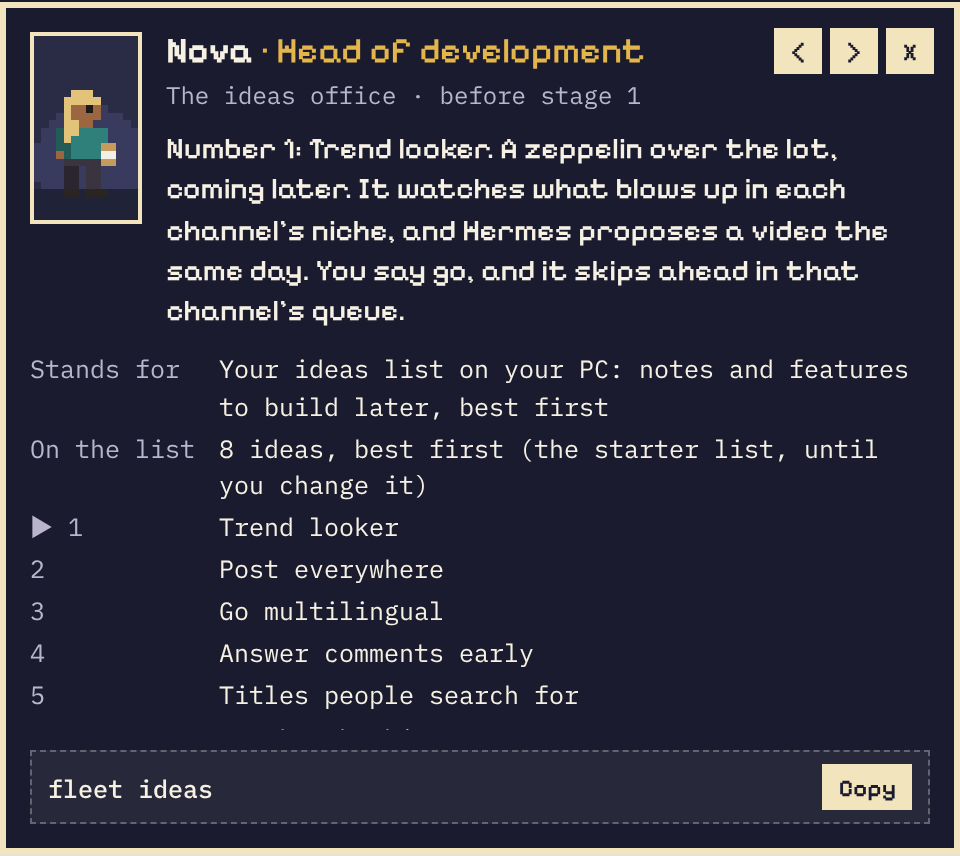
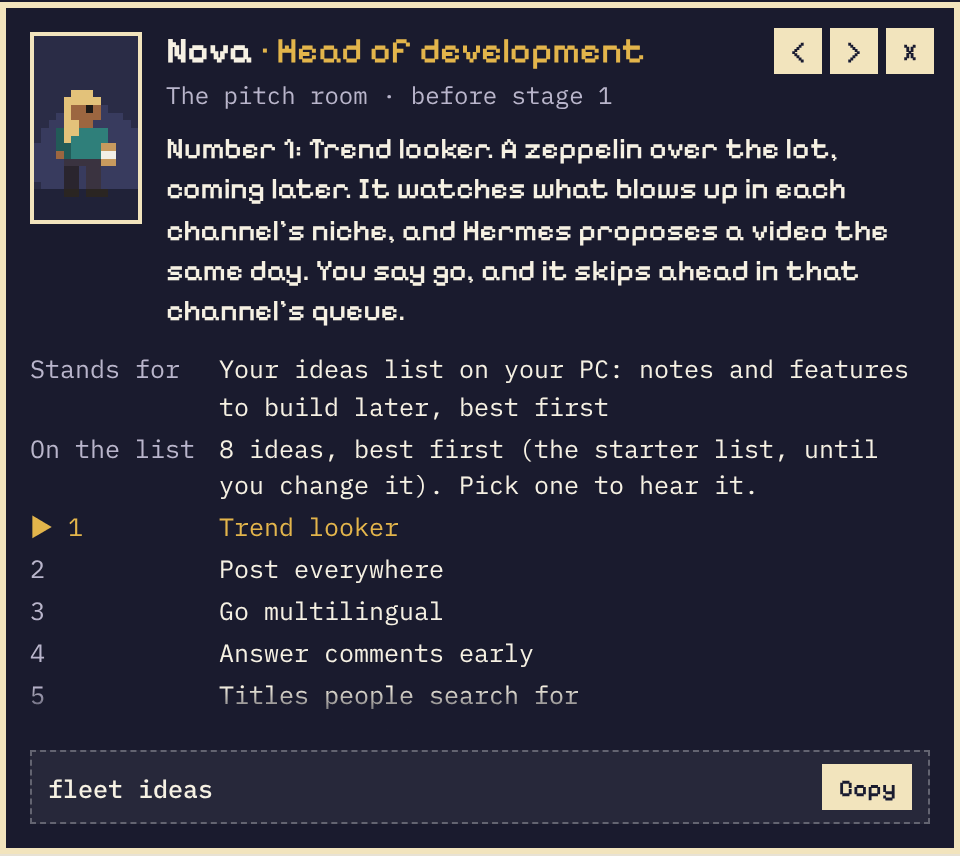
fleet studio: the ideas office becomes the pitch room, and its list scrolls
The building before stage 1 keeps to the film lot: its sign says PITCH, the
card and the call sheet call it the pitch room, and Nova pitches each idea.
Where an idea stands is said in film words: greenlit (next), in production
(building), wrapped (built). The fleet ideas command and its statuses stay
as they were.

In Nova's card the whole list scrolls, with a fade while there is more
above or below. Click an idea, or its number, and Nova pitches that one now
and goes on from there; with the keyboard, Tab to the list and use the up
and down arrows. The list follows the idea being read unless you scrolled
it a moment ago, and a redraw no longer moves your scroll.

The skill tells Hermes the film words (fleet-ops 1.7.1).

Claude-Session: https://claude.ai/code/session_017N652kmKMniw5bDy4zoPiv

diff --git a/home/studio/pixel.html b/home/studio/pixel.html
@@ -200,6 +200,15 @@ html.lot-full, html.lot-full body { overflow: hidden; }
 .film.stacked .params { max-height: none; }
 .params dt { color: var(--box-soft); }
 .params dd { overflow-wrap: anywhere; }
+.params { scrollbar-width: thin; scrollbar-color: var(--box-soft) transparent; }
+.params.up { -webkit-mask-image: linear-gradient(transparent, #000 22px); mask-image: linear-gradient(transparent, #000 22px); }
+.params.down { -webkit-mask-image: linear-gradient(#000 calc(100% - 22px), transparent); mask-image: linear-gradient(#000 calc(100% - 22px), transparent); }
+.params.up.down { -webkit-mask-image: linear-gradient(transparent, #000 22px, #000 calc(100% - 22px), transparent); mask-image: linear-gradient(transparent, #000 22px, #000 calc(100% - 22px), transparent); }
+.params dt[data-pick] { cursor: pointer; }
+.params .pickb { all: unset; display: block; cursor: pointer; overflow-wrap: anywhere; }
+.params .pickb:hover { background: none; color: #fff; text-decoration: underline; text-underline-offset: 2px; }
+.params .pickb:focus-visible { outline: 2px solid var(--gold); outline-offset: 1px; }
+.params .on, .params .on .pickb { color: var(--gold); }
 .cmd { grid-column: 1 / -1; display: flex; gap: 8px; align-items: center; padding: 6px 8px; background: rgba(255, 255, 255, .06); border: 1px dashed rgba(255, 255, 255, .28); }
 .cmd[hidden] { display: none; }
 .cmd code { flex: 1; font: 500 12.5px/1.3 var(--font-mono); overflow-wrap: anywhere; }
@@ -337,7 +346,7 @@ html.lot-full, html.lot-full body { overflow: hidden; }
   function plan(n) {
     const R = Math.ceil(n / 2), Lc = Math.floor(n / 2);
     G = Math.max(28, B + Math.max(R, Lc + 1) * SLOT + 5);  // at least 28: room on the lawn for the screen
-    ideasBase = B + Lc * SLOT;  // the ideas office, just before stage 1
+    ideasBase = B + Lc * SLOT;  // the pitch room, just before stage 1
     towerY = ideasBase + 8;     // then the water tower: G is always at least ideasBase + 12
     const out = [];  // read from left to right: the left edge from the outside in, then the right edge
     for (let j = Lc - 1; j >= 0; j--) out.push({ edge: "L", base: B + j * SLOT });
@@ -944,8 +953,8 @@ html.lot-full, html.lot-full body { overflow: hidden; }
     staticHits.push(Object.assign(bbox([[C[0] - rx - 5, apex[1]], [C[0] + rx + 5, C[1]]]), { key: "lookout", pri: 6 }));
   }
 
-  // The ideas office, just before stage 1: notes and features to build later. A light bulb on the
-  // roof, a note pinned by the side for each idea, the list itself on an easel (see ideasCast).
+  // The pitch room, just before stage 1: your ideas for later, pitched one at a time. A light bulb
+  // on the roof, a note pinned by the side for each idea, the list itself on an easel (see ideasCast).
   const TEAL = "#2f7f7a";
   function drawIdeas(g) {
     const x0 = 0.6, x1 = 3.9, y0 = ideasBase + 0.5, y1 = ideasBase + 4.3, h = 28;
@@ -960,7 +969,7 @@ html.lot-full, html.lot-full body { overflow: hidden; }
     const front = (ya, yb, za, zb) => { win([P(x1, ya, za), P(x1, yb, za), P(x1, yb, zb), P(x1, ya, zb)]); seg(g, P(x1, ya, za - 1), P(x1, yb, za - 1), "#f7f1e1"); };
     const side = (xa, xb, za, zb) => { win([P(xa, y1, za), P(xb, y1, za), P(xb, y1, zb), P(xa, y1, zb)]); seg(g, P(xa, y1, za - 1), P(xb, y1, za - 1), "#f7f1e1"); };
     front(y0 + 0.3, y0 + 1.15, 4, 10); front(y0 + 2.65, y0 + 3.5, 4, 10);                       // the ground floor
-    for (const a of [0.3, 1.55, 2.8]) front(y0 + a, y0 + a + 0.7, 14, 20);                      // the writers' room
+    for (const a of [0.3, 1.55, 2.8]) front(y0 + a, y0 + a + 0.7, 14, 20);                      // upstairs
     side(x0 + 0.45, x0 + 1.2, 14, 20); side(x0 + 1.95, x0 + 2.7, 14, 20);
     poly(g, [P(x1, y0 + 1.5, 0), P(x1, y0 + 2.3, 0), P(x1, y0 + 2.3, 10), P(x1, y0 + 1.5, 10)], TEAL);  // the door
     win([P(x1, y0 + 1.65, 5), P(x1, y0 + 2.15, 5), P(x1, y0 + 2.15, 9), P(x1, y0 + 1.65, 9)]);
@@ -970,7 +979,7 @@ html.lot-full, html.lot-full body { overflow: hidden; }
       poly(g, [P(x1, ya, 13), P(x1, yb, 13), P(x1 + 0.55, yb, 11), P(x1 + 0.55, ya, 11)], i % 2 ? "#f4efe4" : TEAL);
     }
     const t0 = P(x1, y0 + 3.09, 26);
-    text(g, "IDEAS", t0[0], t0[1], TEAL, { shear: -1 });
+    text(g, "PITCH", t0[0], t0[1], TEAL, { shear: -1 });
     // the notes board by the side: a note pinned for each idea
     poly(g, [P(x0 + 0.35, y1, 3), P(x0 + 2.95, y1, 3), P(x0 + 2.95, y1, 10), P(x0 + 0.35, y1, 10)], "#a8774a");
     seg(g, P(x0 + 0.35, y1, 10), P(x0 + 2.95, y1, 10), "#6b4a2c"); seg(g, P(x0 + 0.35, y1, 3), P(x0 + 2.95, y1, 3), "#6b4a2c");
@@ -2203,21 +2212,23 @@ html.lot-full, html.lot-full body { overflow: hidden; }
     add(Object.assign({ key: "screen", name: "The screening room", role: "Finished videos", where: "On the lawn", group: LOT, order: 5, object: "screen",
       stands: "the videos you have collected with fleet pull, newest first", live: screenFacts }, screenFacts()));
   }
-  // ---------------------------------------------------------------- the ideas office
-  // The head of development reads your ideas list out at the easel, one idea at a time, a longer
-  // one a little longer, then says how to add one. Open their card and they start from the top.
+  // ---------------------------------------------------------------- the pitch room
+  // The head of development pitches your ideas list at the easel, one idea at a time, a longer
+  // one a little longer, then says how to add one. Open their card and they start from the top;
+  // pick an idea in the card and they pitch that one, then go on from there.
   const IDEAS = "ideas";
   const reading = { slots: [], total: 0, n: 0, t0: 0 };
   const ideasNow = () => (snap && Array.isArray(snap.ideas) ? snap.ideas.filter((i) => i && i.title) : []);
-  const IDEA_HOW = { next: "next to build", building: "being built", built: "built" };
+  // Where an idea stands, in film words: next is greenlit, building is in production, built is wrapped.
+  const IDEA_HOW = { next: "greenlit", building: "in production", built: "wrapped" };
   function ideaSaid(i, k) {
-    const how = { next: ", the next one to build", building: ", being built now", built: ", already built" }[i.status] || "";
+    const how = { next: ", greenlit to be built next", building: ", in production right now", built: ", wrapped and built" }[i.status] || "";
     return "Number " + (k + 1) + how + ": " + sentence(i.title) + (i.note ? " " + sentence(i.note) : "");
   }
   function readList(list) {  // a slot of time for each idea, then the closing line
     const said = list.map(ideaSaid);
-    said.push(list.length ? "That's the list: " + plural(list.length, "idea", "ideas") + ", best first. To add one, tell Hermes on Telegram or run fleet ideas add."
-      : "The list is empty. To add an idea, tell Hermes on Telegram or run fleet ideas add.");
+    said.push(list.length ? "That's " + (list.length === 1 ? "the only pitch" : "all " + list.length + " pitches, best first") + ". To add one, tell Hermes on Telegram or run fleet ideas add."
+      : "Nothing to pitch yet. To add an idea, tell Hermes on Telegram or run fleet ideas add.");
     let at = 0;
     reading.slots = said.map((q) => { const ms = Math.max(5000, Math.min(11000, 2000 + q.length * 40)), sl = { said: q, start: at, ms }; at += ms; return sl; });
     reading.total = at; reading.n = list.length;
@@ -2237,13 +2248,14 @@ html.lot-full, html.lot-full body { overflow: hidden; }
       if (err) return { quote: "I can't read the ideas list: " + sentence(err), params: [["Problem", err]] };
       const r = readNow(), cur = r ? r.k : -1;
       return { quote: r ? r.slot.said : "",
-        params: [["On the list", plural(list.length, "idea", "ideas") + ", best first" + (snap && snap.ideas_starter ? " (the starter list, until you change it)" : "")]]
-          .concat(list.map((i, k) => [(k === cur ? "▶ " : "") + (k + 1), i.title + (IDEA_HOW[i.status] ? " · " + IDEA_HOW[i.status] : "")])) };
+        params: [["On the list", plural(list.length, "idea", "ideas") + ", best first" + (snap && snap.ideas_starter ? " (the starter list, until you change it)" : "") + (list.length > 1 ? ". Pick one to hear it." : "")]]
+          .concat(list.map((i, k) => [(k === cur ? "▶ " : "") + (k + 1), i.title + (IDEA_HOW[i.status] ? " · " + IDEA_HOW[i.status] : ""), { pick: k, on: k === cur }])) };
     };
-    add({ key: IDEAS, name: "Nova", role: "Head of development", where: "The ideas office · before stage 1", group: IDEAS, order: 0,
+    add({ key: IDEAS, name: "Nova", role: "Head of development", where: "The pitch room · before stage 1", group: IDEAS, order: 0,
       stands: "your ideas list on your PC: notes and features to build later, best first",
-      quote: err ? "I can't read the ideas list." : list.length ? plural(list.length, "idea", "ideas") + " on the list. Number 1: " + sentence(list[0].title) : "The ideas list is empty.",
+      quote: err ? "I can't read the ideas list." : list.length ? plural(list.length, "pitch", "pitches") + " on the list. Number 1: " + sentence(list[0].title) : "Nothing to pitch yet.",
       look: look(IDEAS, { shirt: TEAL, pants: "#3a3340", prop: "clipboard" }), reads: !err, live: facts,
+      pick: (k) => { if (reading.slots[k]) reading.t0 = Date.now() - reading.slots[k].start; },  // pitch this one now
       cmd: "fleet ideas",
       bubble: () => { const r = readNow(); return r && r.k < reading.n && r.into < 2600 ? String(r.k + 1) : null; },
       pos: () => ({ gx: 3.6, gy: ideasBase + 5.4 }) });
@@ -2264,7 +2276,7 @@ html.lot-full, html.lot-full body { overflow: hidden; }
     if (cur >= 0) { const yy = by + 5 + (cur - from) * 2; px(g, bx - 3, yy - 1, 1, 3, "#d6402f"); px(g, bx - 2, yy, 1, 1, "#d6402f"); }
     return { x: bx - 4, y: by - 1, w: bw + 6, h: y - by + 2 };
   }
-  function ideaGlow(g, Lt) {  // the bulb on the ideas office: lit after dark, a flash at each new idea
+  function ideaGlow(g, Lt) {  // the bulb on the pitch room: lit after dark, a flash at each new idea
     const r = readNow(), [x, y] = lights.idea;
     const flash = r && r.k < reading.n && !reduced ? clamp01(1 - r.into / 700) : 0;
     const a = Math.max(clamp01((Lt.dark - 0.2) / 0.3) * 0.85, flash);
@@ -3378,22 +3390,64 @@ html.lot-full, html.lot-full body { overflow: hidden; }
     reveal(r);
     dialog.classList.toggle("right", !!r && panX + (r.x + r.w / 2) * scale * zoom < viewW() * 0.48);
     dialog.hidden = false;
+    follow();  // now that the box has a size
     markSheet();
     if (from === "sheet") film.scrollIntoView({ block: "nearest", behavior: reduced ? "auto" : "smooth" });
   }
+  let paramsShown = "", listAt = 0;  // the lines in the box as drawn, and when you last scrolled them
   function fillDialog(m, fresh) {
     if (m.live) Object.assign(m, m.live());  // someone whose words change between looks (the screen)
     D.name.textContent = m.name;
     D.role.textContent = "· " + m.role;
     D.where.textContent = m.where;
-    D.params.innerHTML = [["Stands for", cap(m.stands)]].concat(m.params || [])
-      .map(([k, v]) => "<dt>" + esc(k) + "</dt><dd>" + esc(v) + "</dd>").join("");
+    const html = [["Stands for", cap(m.stands)]].concat(m.params || []).map(paramRow).join("");
+    if (fresh || html !== paramsShown) {  // drawn again only when a line changes, so a scroll stays where it is
+      const f = D.params.contains(document.activeElement) ? document.activeElement.getAttribute("data-pick") : null;
+      D.params.innerHTML = paramsShown = html;
+      if (fresh) { D.params.scrollTop = 0; listAt = 0; }
+      const b = f != null && D.params.querySelector('button[data-pick="' + f + '"]');
+      if (b) b.focus({ preventScroll: true });
+      follow();
+    }
     D.cmd.hidden = !m.cmd;
     D.watch.hidden = !m.film;
     if (D.code.textContent !== (m.cmd || "")) { D.code.textContent = m.cmd || ""; D.copy.textContent = "Copy"; }
     if (fresh || m.quote !== shownQuote) type(m.quote, fresh || !!m.reads);
     drawPortrait($("portrait"), m);
   }
+  // A line of the box. One you can pick (an idea in the pitch room) is a button: [label, value, { pick, on }].
+  function paramRow([k, v, o]) {
+    if (!o) return "<dt>" + esc(k) + "</dt><dd>" + esc(v) + "</dd>";
+    return "<dt" + (o.on ? ' class="on"' : "") + ' data-pick="' + o.pick + '">' + esc(k) + "</dt><dd" + (o.on ? ' class="on"' : "") + '><button type="button" class="pickb" data-pick="'
+      + o.pick + '"' + (o.on ? ' aria-current="true"' : "") + ">" + esc(v) + "</button></dd>";
+  }
+  function edges() {  // a fade at the top or the bottom of the lines while there are more that way
+    const L = D.params;
+    L.classList.toggle("up", L.scrollTop > 2);
+    L.classList.toggle("down", L.scrollTop + L.clientHeight < L.scrollHeight - 2);
+  }
+  function follow() {  // keep the line being read out in view, unless you scrolled the list a moment ago
+    const L = D.params, on = L.querySelector("dd.on");
+    if (on && Date.now() - listAt > 8000 && L.scrollHeight > L.clientHeight + 2) {
+      const lr = L.getBoundingClientRect(), r = on.getBoundingClientRect();
+      if (r.top < lr.top + 6 || r.bottom > lr.bottom - 6) {
+        L.scrollTo({ top: L.scrollTop + (r.top + r.bottom) / 2 - (lr.top + lr.bottom) / 2, behavior: reduced ? "auto" : "smooth" });
+      }
+    }
+    edges();
+  }
+  function pickLine(k) {  // pick a line: the pitch room pitches that idea now
+    const m = selected ? castBy.get(selected) : null;
+    if (!m || !m.pick || !Number.isFinite(k)) return;
+    m.pick(k);
+    fillDialog(m, false);
+  }
+  for (const ev of ["wheel", "touchstart", "pointerdown", "keydown"]) D.params.addEventListener(ev, () => { listAt = Date.now(); }, { passive: true });
+  D.params.addEventListener("scroll", edges, { passive: true });
+  D.params.addEventListener("click", (e) => {
+    const t = e.target && e.target.closest ? e.target.closest("[data-pick]") : null;
+    if (t) pickLine(Number(t.getAttribute("data-pick")));
+  });
   function type(q, animate) {
     shownQuote = q; D.said.textContent = q;
     clearInterval(typing);
@@ -3430,7 +3484,12 @@ html.lot-full, html.lot-full body { overflow: hidden; }
   document.addEventListener("keydown", (e) => {
     if (inBox(e)) return;
     if (e.key === "Escape" && !dialog.hidden) { closeDialog(); e.preventDefault(); }
-    else if (!dialog.hidden && (e.key === "ArrowRight" || e.key === "ArrowLeft") && dialog.contains(document.activeElement)) {
+    else if (!dialog.hidden && (e.key === "ArrowDown" || e.key === "ArrowUp") && document.activeElement && document.activeElement.classList.contains("pickb")) {
+      const k = Number(document.activeElement.getAttribute("data-pick")) + (e.key === "ArrowDown" ? 1 : -1);  // the next or previous idea
+      const b = D.params.querySelector('button[data-pick="' + k + '"]');
+      if (b) { b.focus(); pickLine(k); }
+      e.preventDefault();
+    } else if (!dialog.hidden && (e.key === "ArrowRight" || e.key === "ArrowLeft") && dialog.contains(document.activeElement)) {
       step(e.key === "ArrowRight" ? 1 : -1); e.preventDefault();
     }
   });
@@ -3457,7 +3516,7 @@ html.lot-full, html.lot-full body { overflow: hidden; }
   let sheetKeys = [], sheetSig = "";
   function renderSheet() {
     const groups = [{ key: LOT, title: "The lot", c: "var(--gold)", sub: "your PC and the road" },
-      { key: IDEAS, title: "The ideas office", c: TEAL, sub: "notes for later" }]
+      { key: IDEAS, title: "The pitch room", c: TEAL, sub: "your ideas for later" }]
       .concat(stagesNow.map((st) => ({ key: st.key, title: "Stage " + st.no + " · " + st.node.name, c: CSSC[st.ss.state], sub: st.ss.sign })));
     const keys = [], parts = [];
     for (const gr of groups) {

diff --git a/docs/handoff.md b/docs/handoff.md
@@ -40,7 +40,7 @@ owner can give you their PC through Remote Control; the VPSs are reached only th
 | --- | --- |
 | `home/bin/fleet` | The CLI. One Python file, standard library only, Python 3.9+, Windows, Linux and macOS. |
 | `home/studio/studio.html` | The studio board, a page fragment. `fleet studio` serves it in a full page from the PC with live data. Opened as a plain file, it shows an example lot. It has a strip of the last 24 hours that replays the board, and a screening room for the collected videos. |
-| `home/studio/pixel.html` | The pixel lot: the same fleet drawn on a canvas in isometric pixel art, every character on the lot tied to a real value, in a town that is only scenery. The light follows the viewer's clock minute by minute, the season follows the date and the weather is made up from the date and the hour (scenery too). The picture zooms in sharp steps and drags, and full screen keeps the screen on. Sound, off until turned on, is made in the page with Web Audio. A screen on the lawn shows the collected videos, the ideas office before stage 1 reads out the owner's ideas list, and Replay plays back the last 24 hours. One file with no build step, served as `/pixel.html`. |
+| `home/studio/pixel.html` | The pixel lot: the same fleet drawn on a canvas in isometric pixel art, every character on the lot tied to a real value, in a town that is only scenery. The light follows the viewer's clock minute by minute, the season follows the date and the weather is made up from the date and the hour (scenery too). The picture zooms in sharp steps and drags, and full screen keeps the screen on. Sound, off until turned on, is made in the page with Web Audio. A screen on the lawn shows the collected videos, the pitch room before stage 1 reads out the owner's ideas list, and Replay plays back the last 24 hours. One file with no build step, served as `/pixel.html`. |
 | `home/studio/studio-data.js` | What both views share: the example lot, the polling of `/api/studio`, the meaning of each state, the replay (`at()` rebuilds a past moment from the job times, `setNow()` moves the shared clock), the 24-hour strip and the video player. `fleet studio` serves it with `FLEET_STUDIO_LIVE` set, and serves collected videos under `/media/<vps>/<job>/<file>` from each job's `output` folder in `results_dir`. |
 | `home/install.ps1`, `home/install.sh` | The PC installers: Git (Windows), Python, Tailscale, Hermes, then `fleet init`. |
 | `home/hermes/SOUL.md`, `home/hermes/skills/fleet/*/SKILL.md` | Hermes' personality and its `fleet-ops` and `fleet-provision` skills. |

diff --git a/docs/operations/studio.md b/docs/operations/studio.md
@@ -126,7 +126,7 @@ Around the lot:
 | Rio, the courier | At the pickup bay, or driving the van | Finished videos that wait to be collected on your PC. The van stops at each stage that has some. | How many wait on each VPS, `fleet pull` |
 | The marquee | By the red carpet | The newest video finished in the last 24 hours. | Its title, its VPS, and the counts for today |
 | The screen | On the lawn, by the marquee | The videos you have collected with `fleet pull`. It shows the newest of each channel in turn. | The video on the screen, its channel and VPS, and **Watch** |
-| Nova, the head of development | At the easel by the ideas office, before stage 1 | Your ideas list: notes and features to build into the fleet later, best first. | Every idea in order, the one being read out marked, `fleet ideas` |
+| Nova, the head of development | At the easel by the pitch room, before stage 1 | Your ideas list: notes and features to build into the fleet later, best first. | Every idea in order, the one being pitched marked, `fleet ideas` |
 
 On each stage:
 
@@ -161,14 +161,22 @@ The crew's trade shows what the session does right now:
 | Assistant director | It updates its plan. |
 | Second unit | It hands a part of the work to a helper. |
 
-### The ideas office
+### The pitch room
 
 The yellow building with a light bulb on its roof, just before stage 1, holds your ideas
-list. Click it, and Nova reads the list out from the top, one idea at a time: the card
+list. Click it, and Nova pitches the list from the top, one idea at a time: the card
 types each one, the easel marks its line, and the bulb flashes. A note is pinned on the
-side of the office for each idea.
+side of the building for each idea.
 
-![Nova's card in the ideas office: the trend looker read out first, and the whole list below it](../assets/studio-pixel-ideas.png){ width="480" }
+The whole list is in the card. Scroll it to see every idea, and click one to hear it now:
+Nova goes on from there. With the keyboard, press Tab to reach the list, then the up
+and down arrows.
+
+Nova says where an idea stands in film words: *greenlit* is the next one to build
+(`--status next`), *in production* is being built (`building`) and *wrapped* is built
+(`built`).
+
+![Nova's card in the pitch room: the trend looker pitched first, and the whole list below it](../assets/studio-pixel-ideas.png){ width="480" }
 
 To add an idea, tell Hermes on Telegram, for example *"Idea: a weekly summary on Sunday
 evenings"*, or run `fleet ideas add`. Until you change the list, it holds the starter

diff --git a/home/hermes/skills/fleet/fleet-ops/SKILL.md b/home/hermes/skills/fleet/fleet-ops/SKILL.md
@@ -1,7 +1,7 @@
 ---
 name: fleet-ops
 description: Run the 5-VPS video fleet from the home machine with the `fleet` CLI. Check health, queue Claude jobs on each channel's VPS, follow logs, cancel, retry or hand over jobs, collect finished videos, check them, plan the week for the owner to approve, publish when asked, set work schedules, keep the owner's ideas list, and triage failures.
-version: 1.7.0
+version: 1.7.1
 metadata:
   hermes:
     tags: [fleet, vps, ssh, video, claude]
@@ -145,14 +145,16 @@ The Sunday job asks for this. The owner approves every topic; you never do.
 
 ## Ideas for the fleet, when the owner has one
 - The ideas list holds notes and features to build into the fleet later, best first. The
-  studio reads it out in the ideas office on the pixel lot. It is not the week plan: a
-  video topic goes in with `fleet plan add`.
+  studio's pitch room reads it out on the pixel lot. It is not the week plan: a video
+  topic goes in with `fleet plan add`.
 - "Idea: ...", "note this idea", "add it to the ideas": `fleet ideas add "<short title>"
   --note "<the idea in a sentence or two, in the owner's words>"`. `--at 1` puts it first.
 - "What ideas do we have": `fleet ideas`, and send the list as it prints.
 - Changes, after `fleet ideas` shows the numbers: `fleet ideas move 4 --to 1`,
   `fleet ideas edit 2 --note "..."`, `fleet ideas edit 2 --status next` (also `building`,
   `built` or back to `idea`), `fleet ideas remove 3`.
+- The studio says these in film words: greenlit is `next`, in production is `building`,
+  wrapped is `built`. "Greenlight 2" means `fleet ideas edit 2 --status next`.
 - An idea is a note, not an order. Do not start work on one (no jobs, no settings, no
   accounts) unless the owner asks for that work.
 

diff --git a/docs/reference/cli.md b/docs/reference/cli.md
@@ -272,9 +272,10 @@ Your ideas list: notes and features to build into the fleet later, best first. T
 numbers are the places in the list, so look with `fleet ideas` before you change one.
 `--at 1` and `--to 1` put an idea first. An idea marked `built` moves to the end of the
 list. `NUMBERS` are one or more numbers, like `3` or `3,5`. Until you change it, the list
-holds the starter ideas, with the trend looker first. The studio shows it in the ideas
-office on the pixel lot, and Hermes adds what you tell it on Telegram. The list is
-`ideas.json`, next to `fleet.ini`.
+holds the starter ideas, with the trend looker first. The pitch room on the pixel lot
+reads it out, in film words: `next` is greenlit, `building` is in production and `built`
+is wrapped. Hermes adds what you tell it on Telegram. The list is `ideas.json`, next to
+`fleet.ini`.
 
 ### fleet publish
 

diff --git a/docs/operations/updates.md b/docs/operations/updates.md
@@ -43,7 +43,8 @@ Two things are not covered by `fleet sync`:
 
 ### From version 1.7 to 1.8
 
-Version 1.8 adds the ideas list (`fleet ideas`) and the ideas office on the pixel lot.
+Version 1.8 adds the ideas list (`fleet ideas`) and the pitch room on the pixel lot, where
+Nova reads it out.
 After `git pull`:
 
 ```powershell
